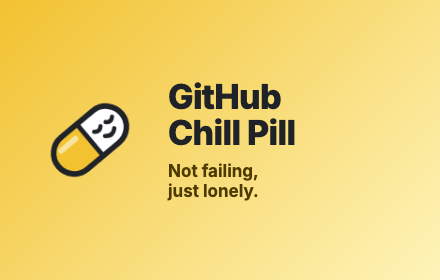
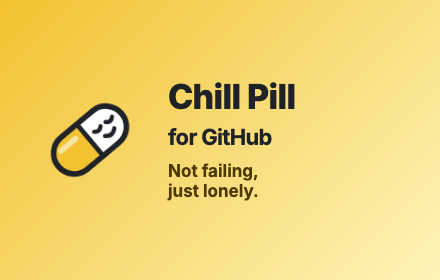
chore(extension): rename to chill pill for github

Changed region(s): [[0.4136, 0.2857, 0.6795, 0.4], [0.3841, 0.4286, 0.6795, 0.5429]]

diff --git a/styles.css b/styles.css
@@ -1,5 +1,5 @@
 /*
- * GitHub – Chill Pill (not failing, just lonely)
+ * Chill Pill for GitHub (not failing, just lonely)
  *
  * Every rule is scoped to data-ghrr-* attributes set by content.js, so nothing
  * on the page changes unless the override is active. Colours come from Primer

diff --git a/content.js b/content.js
@@ -1,5 +1,5 @@
 /*
- * GitHub – Chill Pill (not failing, just lonely)
+ * Chill Pill for GitHub (not failing, just lonely)
  *
  * When GitHub's merge box says "Required checks failing" although no CI check
  * failed and the PR is really only waiting for a review, relabel it as

diff --git a/store/LISTING.md b/store/LISTING.md
@@ -3,7 +3,7 @@
 Copy-paste texts for the Chrome Web Store developer dashboard.
 
 ## Name
-GitHub – Chill Pill
+Chill Pill for GitHub
 
 ## Summary (max 132 characters)
 Not failing, just lonely. Shows "Review required" instead of a fake "Required checks failing" when a PR only needs a review.
@@ -22,7 +22,7 @@ When a repository uses rulesets, GitHub's pull request merge box sometimes shows
 failed. The only thing blocking the merge is a missing approval, often reported through a
 review-gate status check such as "Review approved by everyone".
 
-GitHub – Chill Pill notices this and calms the merge box down:
+Chill Pill notices this and calms the merge box down:
 
 • The heading becomes "Review required", the subtext "At least 1 approving review is required."
 • The red error badge turns into GitHub's yellow attention style, in light and dark themes.

diff --git a/PRIVACY.md b/PRIVACY.md
@@ -1,8 +1,8 @@
-# Privacy Policy – GitHub – Chill Pill
+# Privacy Policy – Chill Pill for GitHub
 
 _Last updated: 2026-11-12_
 
-GitHub – Chill Pill does not collect, store, sell or transmit any personal data.
+Chill Pill for GitHub does not collect, store, sell or transmit any personal data.
 
 ## What the extension does
 

diff --git a/README.md b/README.md
@@ -1,6 +1,6 @@
 <img src="icons/icon128.png" width="96" height="96" alt="">
 
-# GitHub – Chill Pill
+# Chill Pill for GitHub
 
 > Not failing, just lonely.
 
